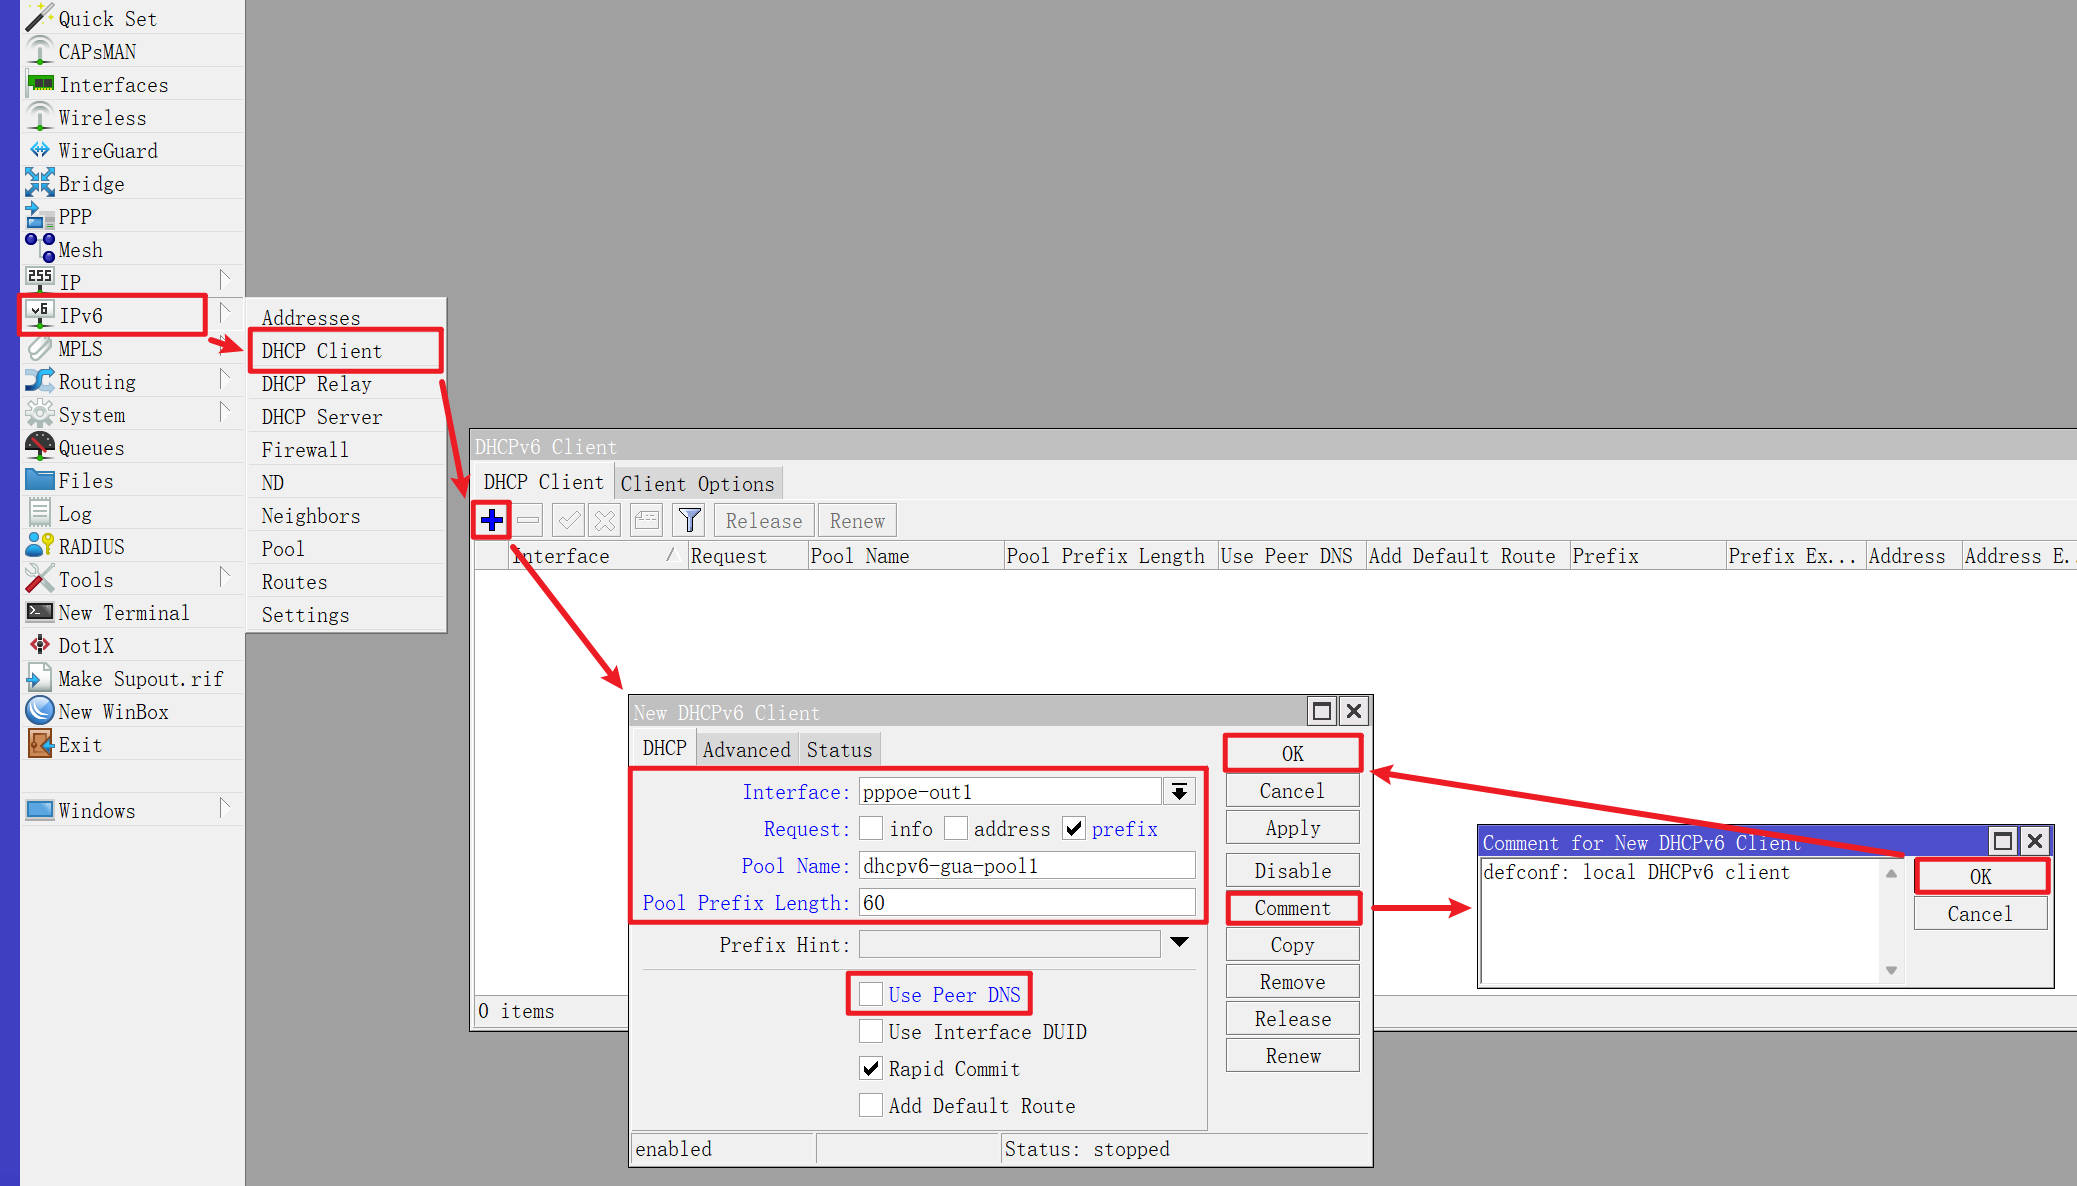
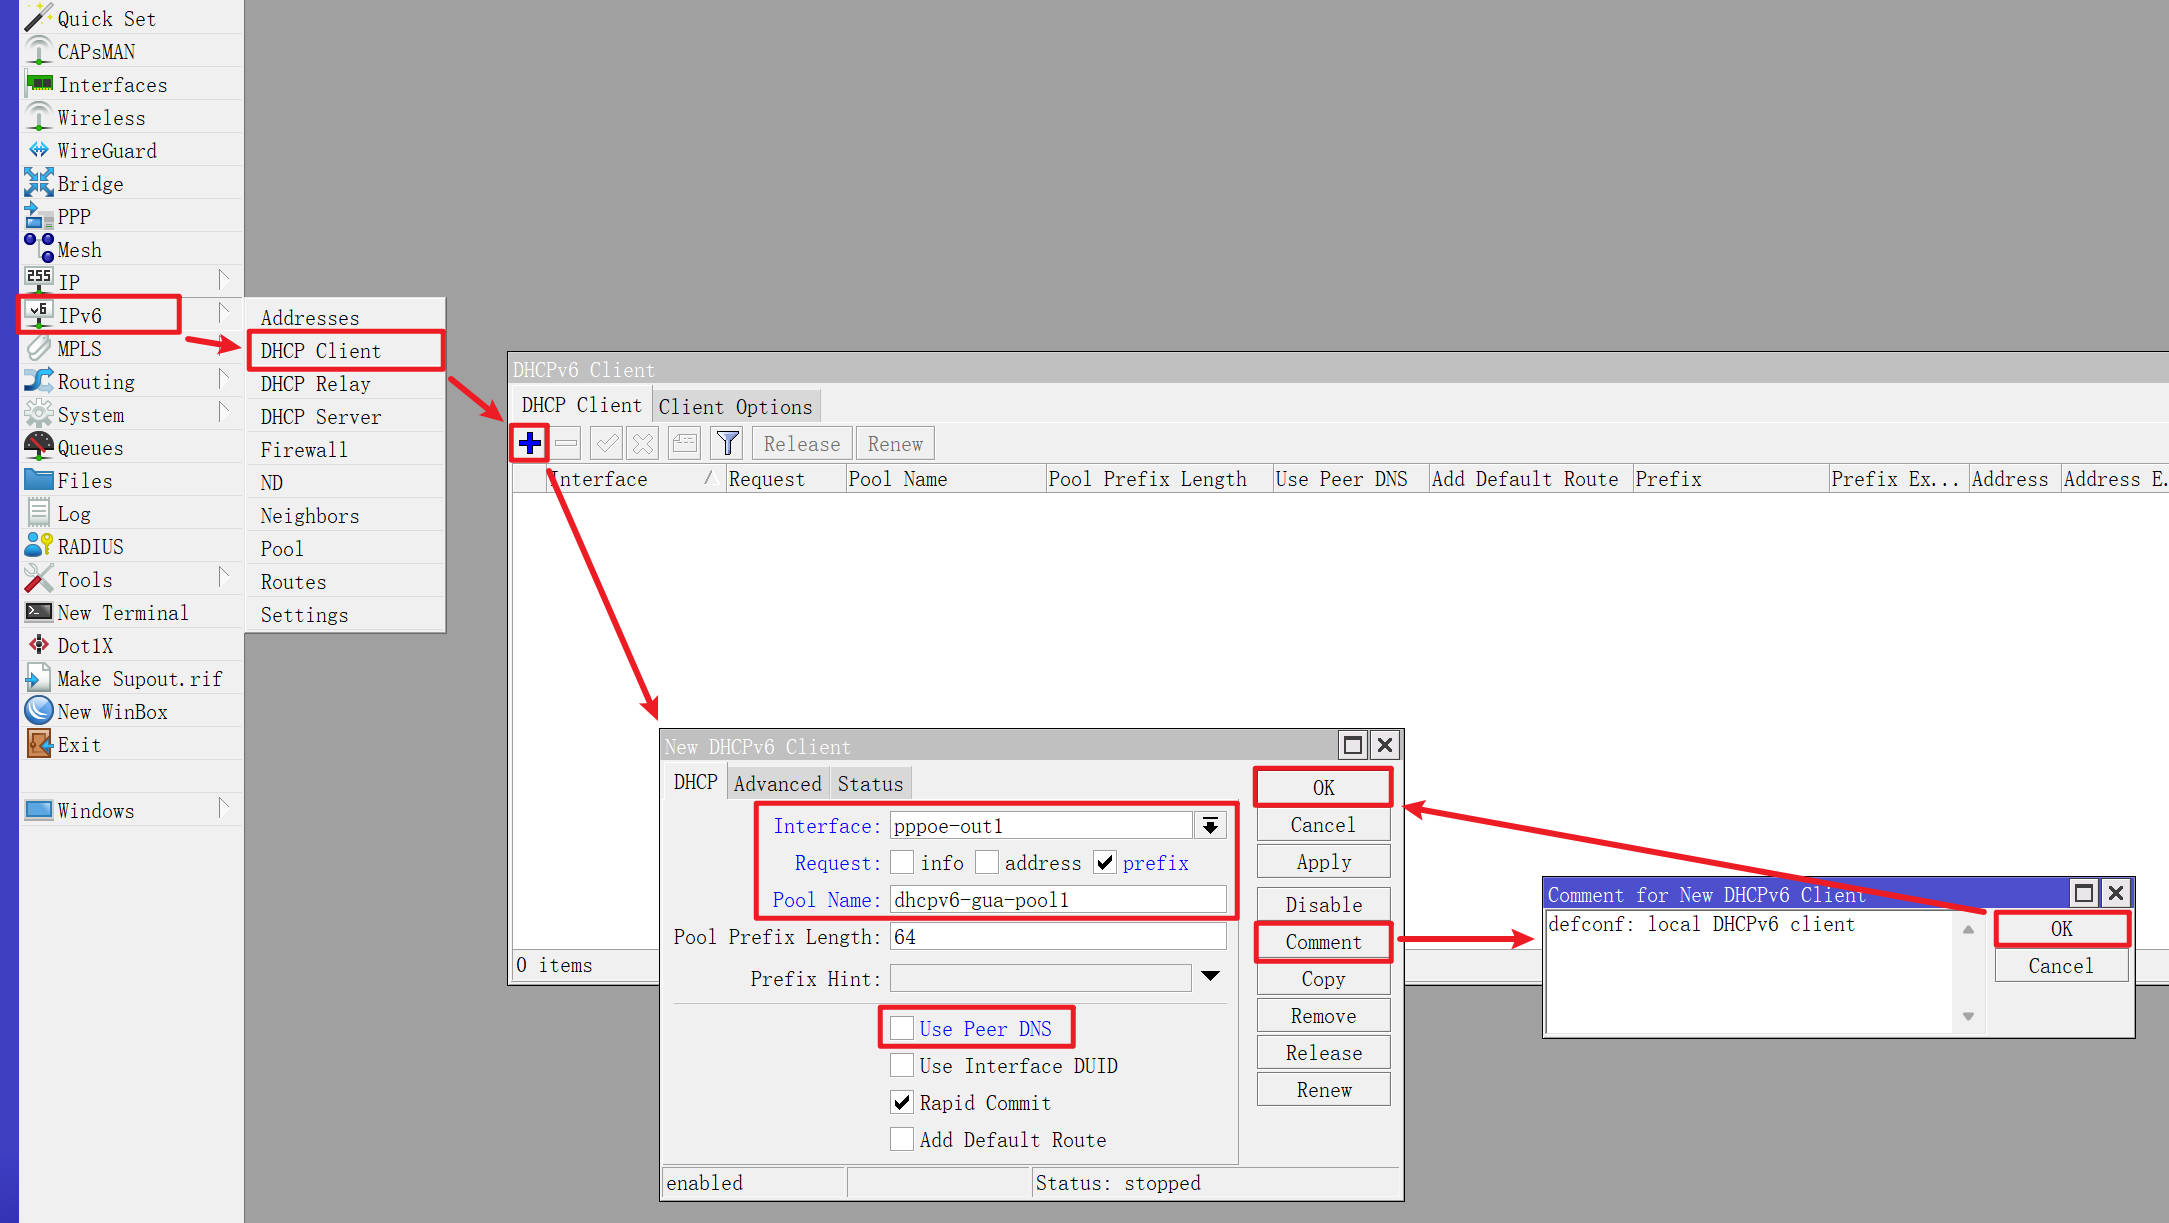
同步更新

Changed region(s): [[0.0, 0.0, 1.0, 1.0], [0.493, 0.4368, 0.8012, 0.4992], [0.832, 0.4368, 1.0, 0.4992]]

diff --git a/09.设置IPv6.md b/09.设置IPv6.md
@@ -25,19 +25,18 @@
 |Interface|`pppoe-out1`|从 PPPoE 拨号中获取 IPv6 前缀|
 |Request|`prefix`|表示只获取前缀信息|
 |Pool Name|`dhcpv6-gua-pool1`|设置本地 IPv6 地址池名称|
-|Pool Prefix Length|`60`|设置本地 IPv6 地址池长度|
+|Pool Prefix Length|`64`|设置本地 IPv6 地址池长度|
 |Use Peer DNS| **取消勾选** |不使用运营商的 IPv6 DNS|
 |Add Default Route| **不勾选** |是否加入默认路由，建议是无需勾选|
 |Comment|`defconf: local DHCPv6 client`|备注信息|
 
-`Pool Prefix Length` 参数默认值为 `64` ，该参数与运营商相关，建议与运营商提供的参数保持一致。  
+`Pool Prefix Length` 参数默认值为 `64` ，该参数与运营商相关，官方文档 [DHCPv6 Client](https://help.mikrotik.com/docs/display/ROS/DHCP#DHCP-DHCPv6Client) 参考如下:  
 
-国内环境，该参数一般为 `56` 、 `60` 、 `64` ，不同的 `Pool Prefix Length` 将影响内网 IPv6 子网数量。  
+> Prefix length parameter that will be set for IPv6 pool in which received IPv6 prefix is added.  
+> Prefix length must be greater than the length of the received prefix,  
+> otherwise, prefix-length will be set to received prefix length + 8 bits.  
 
-国内运营商 `Pool Prefix Length` 参考如下，欢迎提交信息。  
-- 电信宽带： `56`  
-- 移动宽带： `60`  
-- 联通宽带： `60`  
+国内运营商，其前缀长度一般为 `56` 、 `60` 、 `64` ，不同的 `Pool Prefix Length` 将影响内网 IPv6 子网数量。  
 
 对于 `Add Default Route` 参数，没有相关 RFC 文档表明 `DHCPv6 Client` 在仅获取前缀时需要添加默认路由。  
 
@@ -131,12 +130,12 @@
 > PreferredLifetimeSec= defaults to 1800 seconds (30 minutes) and   
 > ValidLifetimeSec= defaults to 3600 seconds (one hour).  
 
-经过一段时间的测试，将 `Preferred Lifetime` 设置为 `1` 小时，将 `Valid Lifetime` 设置为 `2` 小时较为可靠。  
+经过一段时间的测试，将 `Preferred Lifetime` 设置为 `4` 小时，将 `Valid Lifetime` 设置为 `6` 小时较为可靠。  
 
 |参数|值|说明|
 |--|--|--|
-|Valid Lifetime|`02:00:00`|IPv6 地址最大有效期|
-|Preferred Lifetime|`01:00:00`|IPv6 地址建议有效期|
+|Valid Lifetime|`06:00:00`|IPv6 地址最大有效期|
+|Preferred Lifetime|`04:00:00`|IPv6 地址建议有效期|
 
 ### 3.2.设置 ND 通告
 
@@ -153,23 +152,24 @@
 |参数|值|说明|
 |--|--|--|
 |Interface|`bridge1`|选择 `ND` 通告使用的接口|
-|RA Interval|`60-120`|设置 `ND` 通告的时间间隔，时间单位为秒|
+|RA Interval|`100-300`|设置 `ND` 通告的时间间隔，时间单位为秒|
+|RA Lifetime|`900`|设置 `ND` 通告的生存周期，时间单位为秒|
 |Hop Limit|`64`|缺省情况下，由设备初始发送 IPv6 单播报文的跳数限制是 64|
 |DNS Servers|`fdac::1`|`ND` 通告的 IPv6 的 DNS 服务器地址|
 |Advertise MAC Address| **建议勾选** |`ND` 通告中将包含接口的 MAC 地址信息|
 |Advertise DNS| **必须勾选** |`ND` 通告中将包含指定的 DNS 服务器|
 
-![新建nd条目](img/p09/wb_new_nd.png)
+![新建nd条目](img/p09/wb_new_nd.jpeg)
 
 如果内网中 **有** 自建 DNS 服务器，则需要将 `DNS Servers` 参数设置为内网 DNS 服务器的 IPv6 地址。  
 
 假设内网 DNS 服务器分别为 `fdac::2` 、 `fdac::3` ，则 `ND` 配置如下。  
 
-![自建内网dns](img/p09/wb_new_nd_dns.png)
+![自建内网dns](img/p09/wb_new_nd_dns.jpeg)
 
 `ND` 配置完成后，如图所示。  
 
-![nd设置完成](img/p09/wb_nd_done.png)
+![nd设置完成](img/p09/wb_nd_done.jpeg)
 
 ## 4.修改系统 DNS
 
